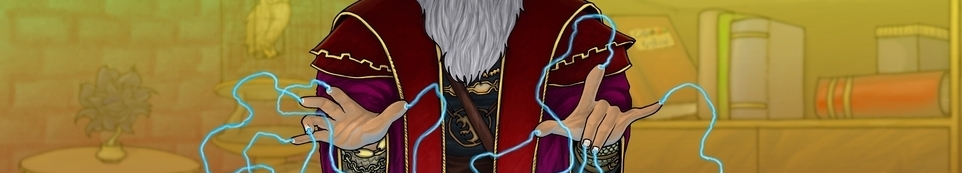
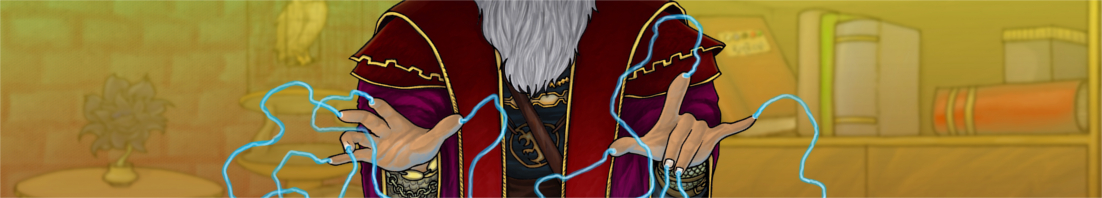
improved the graphics

diff --git a/src/main/resources/templates/expansion/entry.html b/src/main/resources/templates/expansion/entry.html
@@ -24,7 +24,7 @@
         <div style="text-align: center;" data-loading="">
             <span style="font-size: 5em" class="glyphicon glyphicon-refresh glyphicon-refresh-animate"></span>
         </div>
-        <div class="panel panel-default" ng-repeat="card in cards| filter:{data: { name: search.name}}">
+        <div class="panel panel-default panel-inner" ng-repeat="card in cards| filter:{data: { name: search.name}}">
             <div class="panel-heading no-border">
                 <h4 class="cursor-link panel-title" ng-click="openCard(card.data.multiverseId)">{{card.data.name}}</h4>
             </div>
@@ -35,7 +35,7 @@
                             <img class="img-responsive card-image" src="http://mtgimage.com/set/{{::card.data.expansion}}/{{::card.data.imageName}}.hq.jpg" alt="{{::card.data.name}} Image" />
                         </div>
                         <div class="col-md-9">
-                            <div class="panel panel-default">
+                            <div class="panel panel-default panel-inner">
                                 <div class="panel-heading">
                                     <h3 class="panel-title bold">Collection information</h3>
                                 </div>
@@ -129,7 +129,7 @@
                                     </tr>
                                 </table>
                             </div>
-                            <div class="panel panel-default">
+                            <div class="panel panel-default panel-inner">
                                 <div class="panel-heading">
                                     <h3 class="panel-title bold">General information</h3>
                                 </div>
@@ -177,7 +177,7 @@
                                     </tr>
                                 </table>
                             </div>
-                            <div  ng-if="card.data.rulings" class="panel panel-default">
+                            <div  ng-if="card.data.rulings" class="panel panel-default panel-inner">
                                 <div class="panel-heading">
                                     <h3 class="panel-title bold">Ruling information</h3>
                                 </div>

diff --git a/src/main/resources/templates/index.html b/src/main/resources/templates/index.html
@@ -29,14 +29,13 @@
                     </button>
                     <a class="navbar-brand" href="#">Swords of Magic <small style="font-size: 65%; color: white;">v 0.01</small></a>
                 </div>
-
                 <div class="collapse navbar-collapse" id="bs-example-navbar-collapse-1">
                     <form class="navbar-form navbar-left" role="search">
-                        <div class="form-group">
+                        <div class="form-group has-feedback">
                             <input type="text" class="form-control" placeholder="Search" />
+                            <span class="glyphicon glyphicon-search form-control-feedback"></span>
                         </div>
                     </form>
-                    
                     <ul class="nav navbar-nav navbar-right">
                         <li ng-repeat="button in buttons"><a href="#" data-ui-sref="{{button.sref}}" data-ui-sref-active="active">{{button.title}}</a></li>
                     </ul>
@@ -45,7 +44,7 @@
         </nav>
         <div class="container">
             <div class="page-wrap">
-                <div class="row" style="margin-top: 50px;">
+                <div class="row" style="margin-top: 34px;">
                     <div class="col-md-12 text-right">
                         <div style="border-top-right-radius: 0; border-top-left-radius: 0;" class="panel panel-default panel-shadow">
                             <div class="panel-body">

diff --git a/src/main/resources/static/css/core.css b/src/main/resources/static/css/core.css
@@ -56,6 +56,8 @@ nav.navbar {
     height: 40px;
     margin-top: -6px;
     margin-bottom: -6px;
+    background: #D9D1BA;
+    border: 1px solid rgba(0,0,0,0.4);
 }
 
 .expansion-set-tumbnail {
@@ -63,7 +65,9 @@ nav.navbar {
     min-width: 128px;
     min-height: 128px;
     max-height: 128px;
-    background-color: #EEEEEE;
+    background-color: #D9D1BA;
+    border: 1px solid rgba(0,0,0,0.4);
+    box-shadow: 0 1px 1px rgba(0,0,0,.05);
 }
 
 .bold {
@@ -225,6 +229,33 @@ button {
     background-color: #F2E9D0;
 }
 
-.panel-body + table {
-    background-color: #F2E9D0;
+.panel-inner .panel-body + table, .panel-inner .panel-heading + table {
+    background-color: #fff6dd;
+}
+
+textarea:focus,
+input[type="text"]:focus,
+input[type="password"]:focus,
+input[type="datetime"]:focus,
+input[type="datetime-local"]:focus,
+input[type="date"]:focus,
+input[type="month"]:focus,
+input[type="time"]:focus,
+input[type="week"]:focus,
+input[type="number"]:focus,
+input[type="email"]:focus,
+input[type="url"]:focus,
+input[type="search"]:focus,
+input[type="tel"]:focus,
+input[type="color"]:focus,
+.uneditable-input:focus {
+    border-color: rgba(0,0,0,0.3);
+    box-shadow: 0 0 5px #c0af82;
+    outline: 0 none;
+}
+
+/** Card accordion **/
+
+#card-accordion .panel-collapse .panel-body {
+    background-color: #E1D7BD;
 }

diff --git a/src/main/java/com/swords/controller/ExpansionController.java b/src/main/java/com/swords/controller/ExpansionController.java
@@ -46,7 +46,7 @@ public class ExpansionController {
         ExpansionIndexResponse indexResponse = new ExpansionIndexResponse();
 
         expansionlist.stream().forEach((expansion) -> {
-            ExpansionCollection expansionCollection = expansionCollectionRepository.findById(expansion.getId());
+            ExpansionCollection expansionCollection = expansionCollectionRepository.findByIdOrCreateIfNotExists(expansion.getId());
 
             ExpansionItemResponse response = new ExpansionItemResponse();
 
